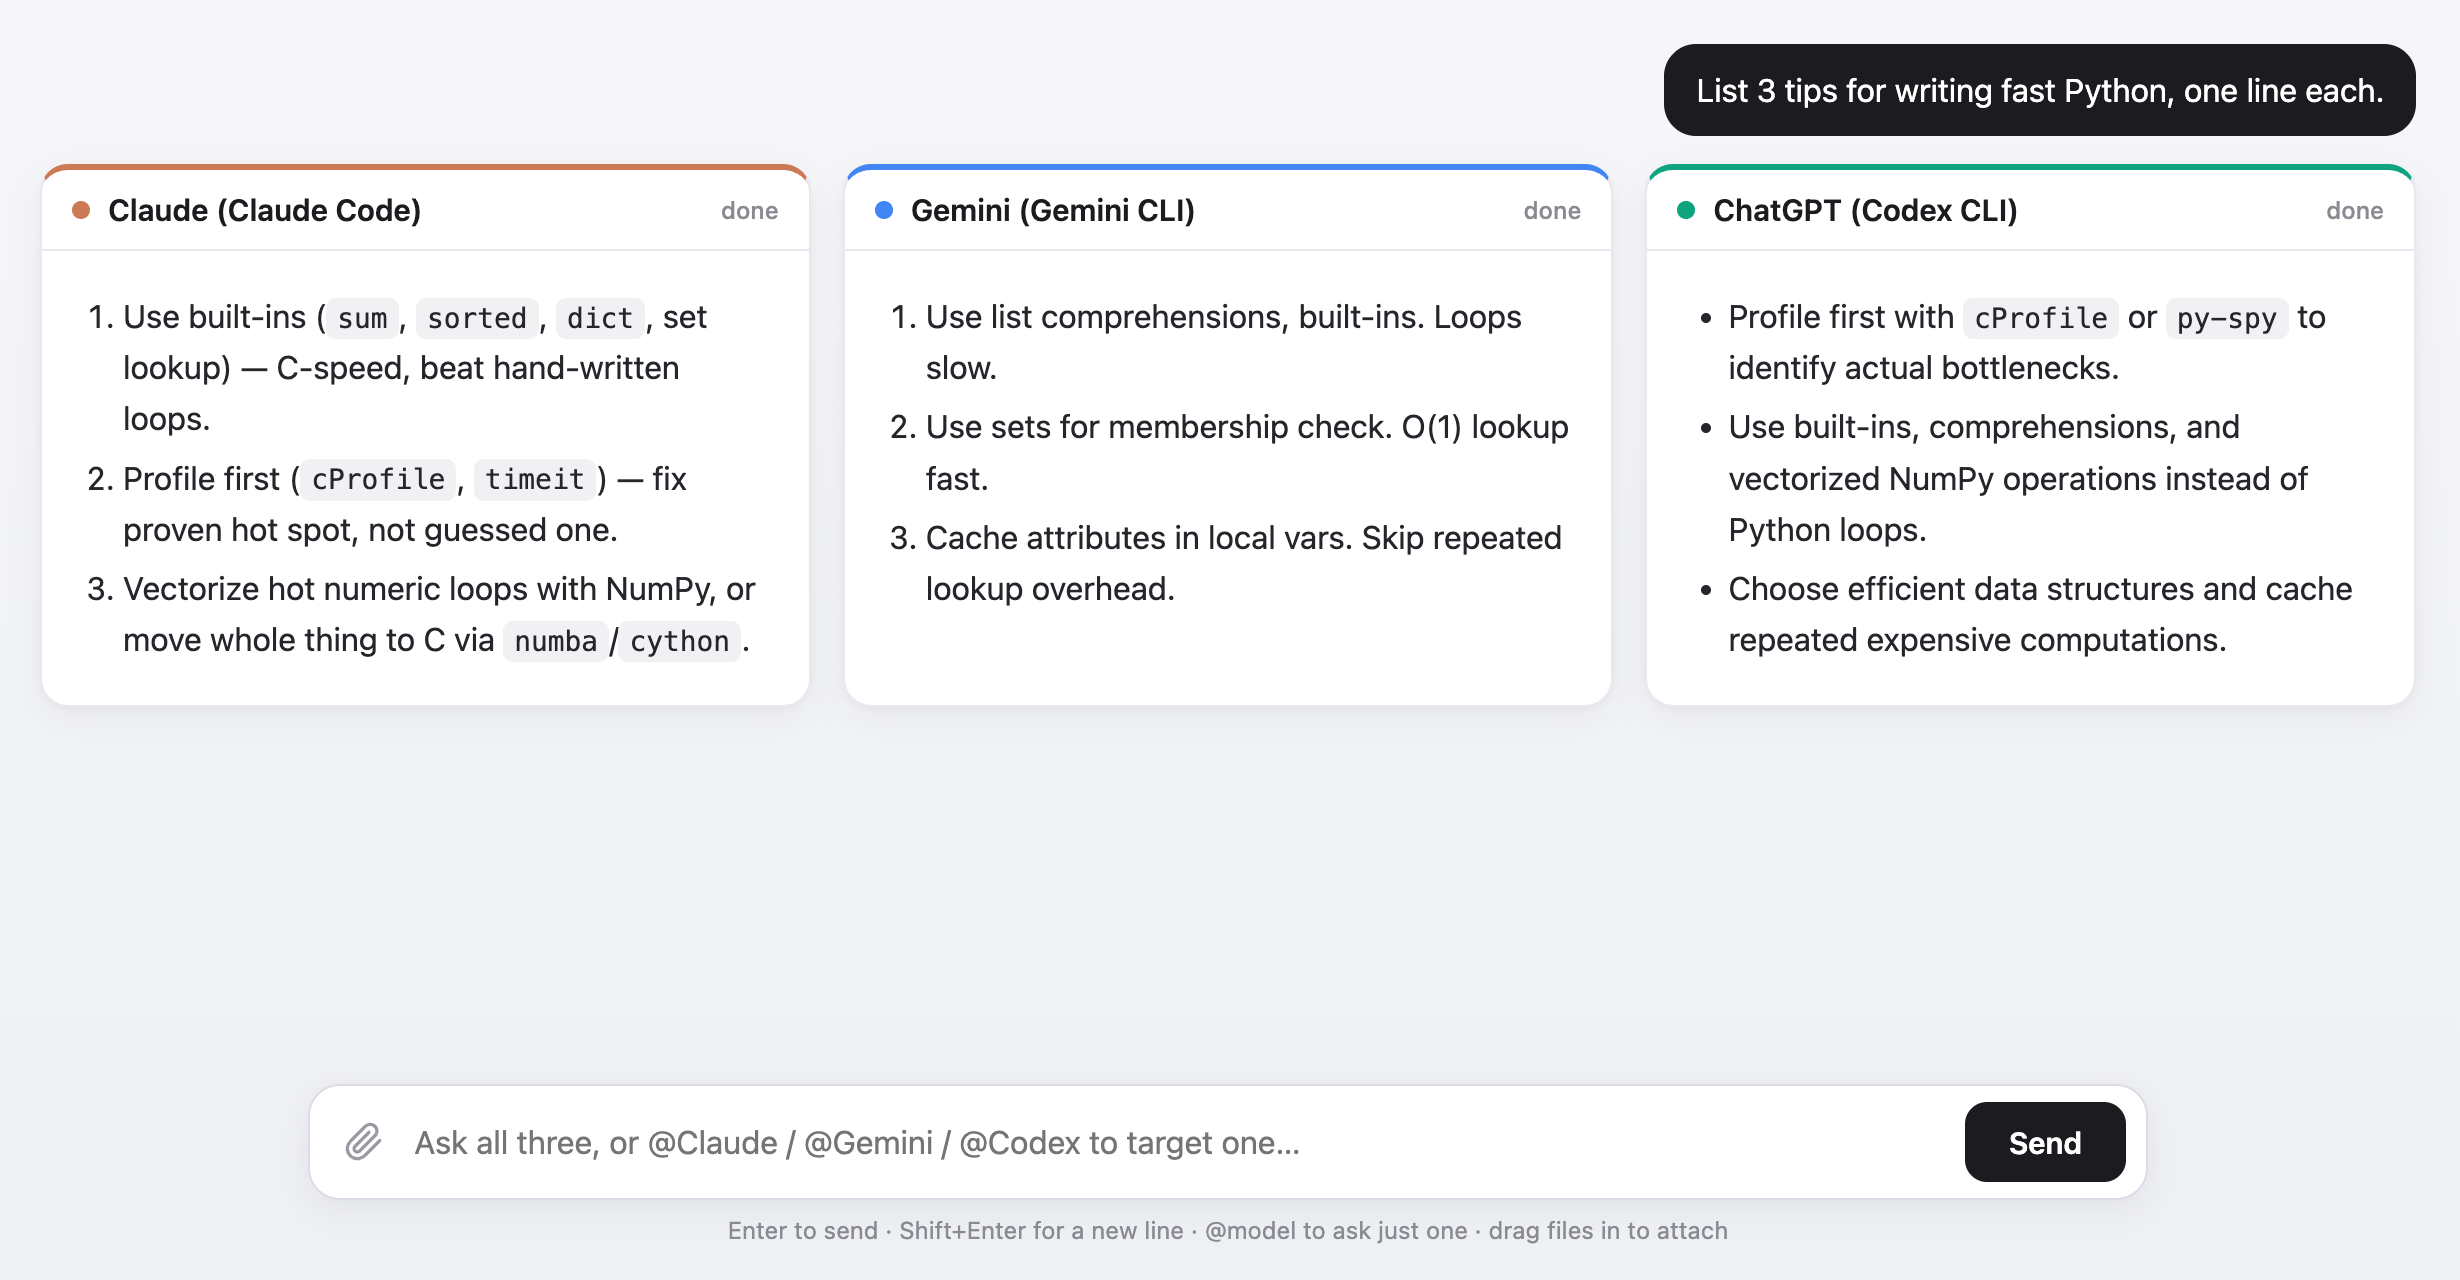
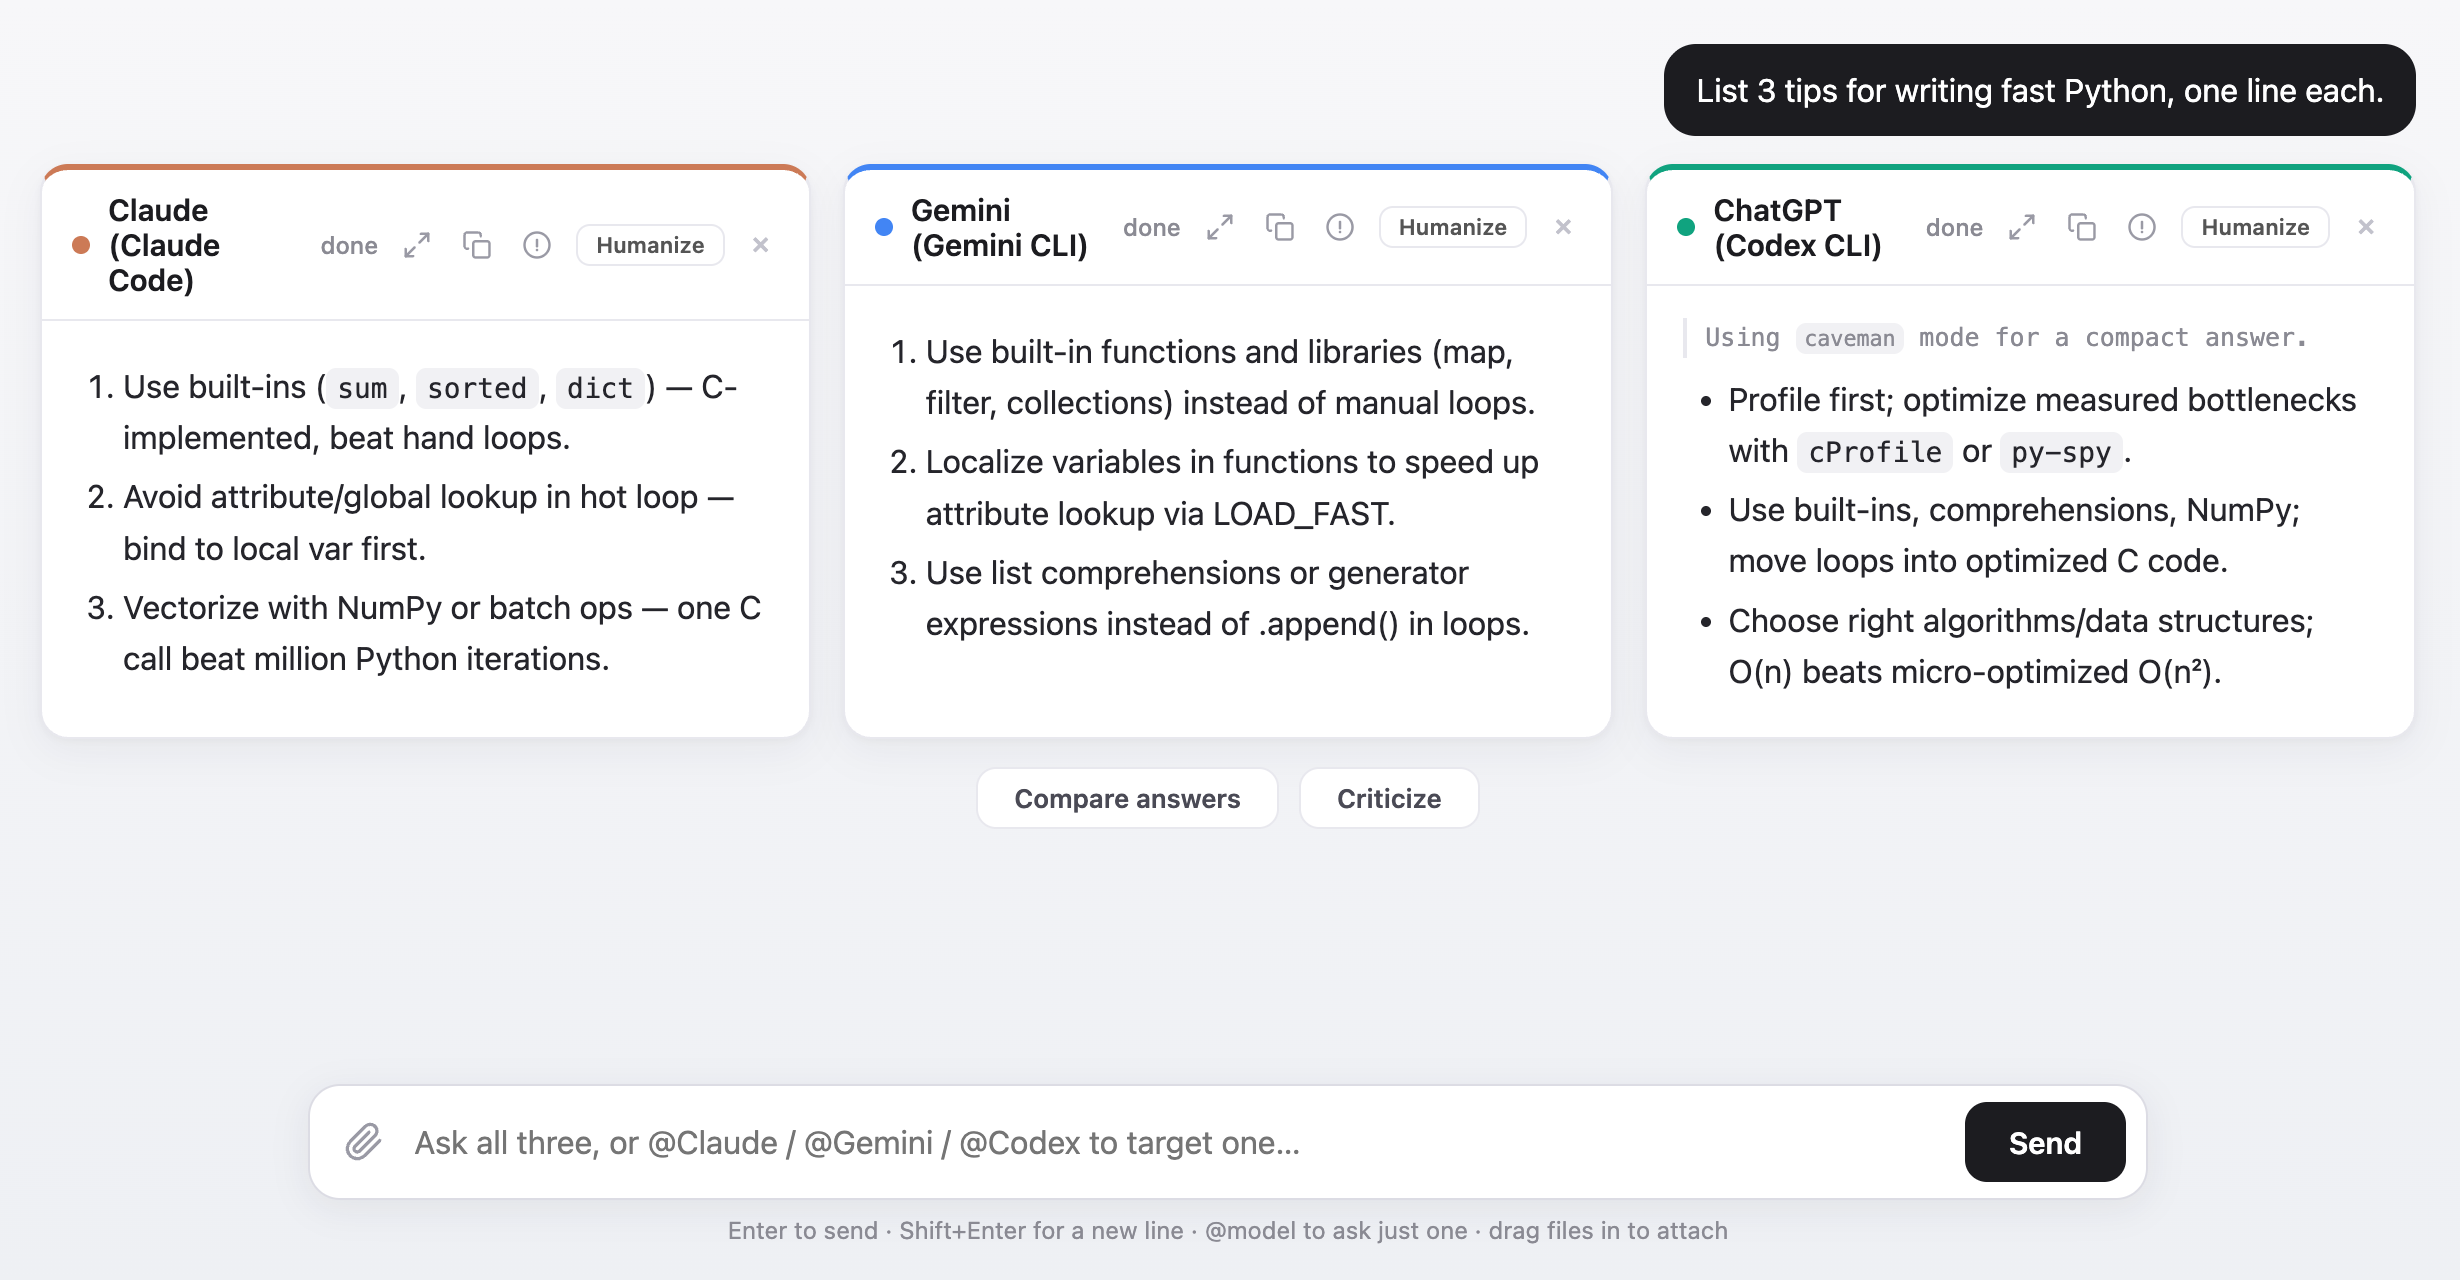
Fix ENOENT after $TMPDIR purge; refresh screenshot; README features
- macOS periodically purges $TMPDIR, deleting the scratch dir; spawn with a
  missing cwd fails with ENOENT ('cannot start claude'). Re-create the scratch
  dir before every spawn (ensureScratch), not just at startup.
- Retake docs/screenshot.png with the current UI (per-box tools, Compare/
  Criticize bar).
- README: add a Features section for newcomers.

diff --git a/server.js b/server.js
@@ -9,7 +9,10 @@ const PORT = process.env.PORT || 3000;
 
 // Agentic CLIs run with this as their working root so they never touch real projects.
 const SCRATCH = path.join(os.tmpdir(), 'aggai-scratch');
-fs.mkdirSync(SCRATCH, { recursive: true });
+// macOS periodically purges $TMPDIR; a spawn with a missing cwd fails with
+// ENOENT. Re-create the scratch dir before every use, not just at startup.
+function ensureScratch() { fs.mkdirSync(SCRATCH, { recursive: true }); return SCRATCH; }
+ensureScratch();
 
 // Conversations are persisted as one JSON file per chat under data/.
 const DATA_DIR = path.join(__dirname, 'data');
@@ -358,7 +361,7 @@ app.post('/humanize', (req, res) => {
   // is slow). sonnet + disallowed agentic tools force a single fast completion.
   const prompt = `다음 한글 텍스트를 사람이 쓴 것처럼 자연스럽게 윤문하세요. AI 티(번역투, 무생물 주어, 피동 남용, 과한 수식어, hedging, 기계적 병렬, 접속사 남발, 형식명사 남발)를 제거하되 의미, 사실, 숫자, 인용은 절대 바꾸지 마세요. 설명이나 메트릭 없이 윤문된 본문만 <<<R>>> 와 <<</R>>> 태그 사이에 출력하세요.\n\n${text}`;
   const child = spawn('claude', ['-p', prompt, '--output-format', 'stream-json', '--verbose', '--model', 'sonnet', '--disallowedTools', 'Skill', 'Task', 'Bash'],
-    { cwd: SCRATCH, stdio: ['ignore', 'pipe', 'pipe'] });
+    { cwd: ensureScratch(), stdio: ['ignore', 'pipe', 'pipe'] });
   let out = '', err = '';
   child.stdout.on('data', (d) => { out += d; });
   child.stderr.on('data', (d) => { err += d; });
@@ -404,7 +407,7 @@ app.post('/criticize', (req, res) => {
       .map((o) => `### ${MODELS[o].label.split(' ')[0]}\n${clean(responses[o])}`).join('\n\n');
     const what = target ? `that assistant's answer` : `the other assistants' answers`;
     const critPrompt = `Several AI assistants answered the same question.\n\nQuestion:\n${prompt || '(see answers)'}\n\nYour answer:\n${clean(responses[id])}\n\n${target ? 'Another assistant answered' : 'The other assistants answered'}:\n\n${subjects}\n\nCritique ${what}: factual errors, questionable claims, omissions, and where it is weaker or stronger than yours. Be specific and fair; concede good points. Concise markdown, same language as the answers. Do not restate your own answer.`;
-    const child = spawn(cfg.cmd, cfg.args(critPrompt, {}), { cwd: SCRATCH, stdio: ['ignore', 'pipe', 'pipe'] });
+    const child = spawn(cfg.cmd, cfg.args(critPrompt, {}), { cwd: ensureScratch(), stdio: ['ignore', 'pipe', 'pipe'] });
     children.push(child);
     let out = '', err = '';
     critiques[id] = '';
@@ -459,7 +462,7 @@ app.post('/compare', (req, res) => {
 
   const cmpPrompt = `Three AI assistants answered the same question. Compare them at a semantic level, not word by word.\n\nQuestion:\n${prompt || '(inferred from the answers)'}\n\nAnswers:\n${parts}\n\nOutput ONLY this JSON between <<<R>>> and <<</R>>> tags, with string values in the same language as the answers:\n{"consensus":["point all or most agree on", ...],"differences":[{"topic":"short topic","positions":[{"model":"claude|gemini|codex","stance":"what this model says"}]}],"unique":[{"model":"claude|gemini|codex","point":"point only this model raised"}]}\nKeep each string short. Omit unique if none. Only include models that actually answered.`;
   const child = spawn('claude', ['-p', cmpPrompt, '--output-format', 'stream-json', '--verbose', '--model', 'sonnet', '--disallowedTools', 'Skill', 'Task', 'Bash'],
-    { cwd: SCRATCH, stdio: ['ignore', 'pipe', 'pipe'] });
+    { cwd: ensureScratch(), stdio: ['ignore', 'pipe', 'pipe'] });
   let out = '', err = '';
   child.stdout.on('data', (d) => { out += d; });
   child.stderr.on('data', (d) => { err += d; });
@@ -494,7 +497,7 @@ app.post('/ask', (req, res) => {
   // Uploaded files are written into a per-request dir that becomes each CLI's
   // working directory, so the agents can read/view them. They're named in the
   // prompt; images are also handed to Codex via -i.
-  let cwd = SCRATCH;
+  let cwd = ensureScratch();
   const images = [];
   const attachments = [];
   if (files.length) {

diff --git a/README.md b/README.md
@@ -15,6 +15,44 @@ Node/Express
    |- spawn  codex exec --json ...                       -> pane 3
 ```
 
+## Features
+
+**Asking**
+- One prompt fans out to all three models; answers stream side by side.
+- `@Claude` / `@Gemini` / `@Codex` (or `@ChatGPT`) targets only those models; no
+  mention uses your default models (Settings).
+- Drag & drop (or paperclip) attaches text, code, images, and PDFs.
+- Every model sees the full conversation history, including turns answered by
+  other models, so follow-ups work across panes.
+- Markdown and LaTeX (MathJax) rendering; Enter sends, Shift+Enter newlines.
+
+**Comparing the models**
+- **Compare answers**: a semantic synthesis of the turn: consensus, differences
+  (who says what), and unique points.
+- **Criticize**: every model critiques the other models' answers; or click the
+  `!` icon on one box to have the others critique just that answer.
+- Syntheses and critiques are saved with the chat.
+
+**Per-response tools** (box header)
+- Expand a box to full width, copy the answer as markdown, delete an answer
+  (also removed from future context).
+- **Humanize**: rewrite an answer to remove the AI tone (Korean text); a
+  Settings toggle applies it to every response automatically.
+
+**Chats**
+- Auto-saved history in the sidebar: rename (double-click), delete, deep-link
+  via `?conv=<id>`.
+- **Temporary chat** mode: nothing is saved.
+- Per-turn and per-response deletion edits what context later turns see.
+
+**Settings & Skills**
+- Default models, base model per service (`opus`/`sonnet`/`haiku` or custom),
+  font family/size.
+- Enable/disable each CLI's skills (Claude, Gemini, Codex) from the Skills
+  panel.
+- Update banner when the GitHub repo is ahead of your running version; the
+  server auto-restarts when a CLI binary updates.
+
 ## Prerequisites
 
 The three CLIs must be installed and **logged in** (each uses its own subscription auth):